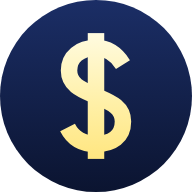
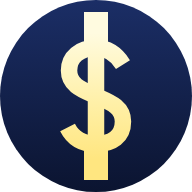
Laboratório: o cifrão do ícone com retangulinhos em cima e embaixo do S
A opção B escolhida pelo autor: o S e o amarelo mais claro continuam iguais;
o traço vertical sai do S em dois retangulinhos, que em 16 px têm 2 px de
largura e caem inteiros nos pixels. Nas 6 páginas do dólar do teste links/,
o endereço do ícone muda de ?v=bemclaro para ?v=retangulos, para o navegador
não mostrar o ícone guardado.

Claude-Session: https://claude.ai/code/session_01Up1sG6mP6TagJLXrWP4Ckp

Changed region(s): [[0.4375, 0.7812, 0.5625, 0.9375], [0.4375, 0.0625, 0.5625, 0.2188]]

diff --git a/links/cotidiano/index.html b/links/cotidiano/index.html
@@ -13,10 +13,10 @@
 
   <meta name="theme-color" content="#06061a">
   <meta name="color-scheme" content="dark">
-  <link rel="icon" href="/my_test_333/links/assets/dolar.ico?v=bemclaro" sizes="16x16 32x32 48x48">
-  <link rel="icon" href="/my_test_333/links/assets/dolar-48.png?v=bemclaro" sizes="48x48" type="image/png">
-  <link rel="icon" href="/my_test_333/links/assets/dolar-192.png?v=bemclaro" sizes="192x192" type="image/png">
-  <link rel="apple-touch-icon" href="/my_test_333/links/assets/dolar-180.png?v=bemclaro">
+  <link rel="icon" href="/my_test_333/links/assets/dolar.ico?v=retangulos" sizes="16x16 32x32 48x48">
+  <link rel="icon" href="/my_test_333/links/assets/dolar-48.png?v=retangulos" sizes="48x48" type="image/png">
+  <link rel="icon" href="/my_test_333/links/assets/dolar-192.png?v=retangulos" sizes="192x192" type="image/png">
+  <link rel="apple-touch-icon" href="/my_test_333/links/assets/dolar-180.png?v=retangulos">
 
   <meta property="og:type" content="website">
   <meta property="og:locale" content="pt_BR">

diff --git a/links/en/everyday/index.html b/links/en/everyday/index.html
@@ -13,10 +13,10 @@
 
   <meta name="theme-color" content="#06061a">
   <meta name="color-scheme" content="dark">
-  <link rel="icon" href="/my_test_333/links/assets/dolar.ico?v=bemclaro" sizes="16x16 32x32 48x48">
-  <link rel="icon" href="/my_test_333/links/assets/dolar-48.png?v=bemclaro" sizes="48x48" type="image/png">
-  <link rel="icon" href="/my_test_333/links/assets/dolar-192.png?v=bemclaro" sizes="192x192" type="image/png">
-  <link rel="apple-touch-icon" href="/my_test_333/links/assets/dolar-180.png?v=bemclaro">
+  <link rel="icon" href="/my_test_333/links/assets/dolar.ico?v=retangulos" sizes="16x16 32x32 48x48">
+  <link rel="icon" href="/my_test_333/links/assets/dolar-48.png?v=retangulos" sizes="48x48" type="image/png">
+  <link rel="icon" href="/my_test_333/links/assets/dolar-192.png?v=retangulos" sizes="192x192" type="image/png">
+  <link rel="apple-touch-icon" href="/my_test_333/links/assets/dolar-180.png?v=retangulos">
 
   <meta property="og:type" content="website">
   <meta property="og:locale" content="en_US">

diff --git a/links/dinheiro/index.html b/links/dinheiro/index.html
@@ -13,10 +13,10 @@
 
   <meta name="theme-color" content="#06110a">
   <meta name="color-scheme" content="dark">
-  <link rel="icon" href="/my_test_333/links/assets/dolar.ico?v=bemclaro" sizes="16x16 32x32 48x48">
-  <link rel="icon" href="/my_test_333/links/assets/dolar-48.png?v=bemclaro" sizes="48x48" type="image/png">
-  <link rel="icon" href="/my_test_333/links/assets/dolar-192.png?v=bemclaro" sizes="192x192" type="image/png">
-  <link rel="apple-touch-icon" href="/my_test_333/links/assets/dolar-180.png?v=bemclaro">
+  <link rel="icon" href="/my_test_333/links/assets/dolar.ico?v=retangulos" sizes="16x16 32x32 48x48">
+  <link rel="icon" href="/my_test_333/links/assets/dolar-48.png?v=retangulos" sizes="48x48" type="image/png">
+  <link rel="icon" href="/my_test_333/links/assets/dolar-192.png?v=retangulos" sizes="192x192" type="image/png">
+  <link rel="apple-touch-icon" href="/my_test_333/links/assets/dolar-180.png?v=retangulos">
 
   <meta property="og:type" content="book">
   <meta property="og:locale" content="pt_BR">

diff --git a/links/money/index.html b/links/money/index.html
@@ -13,10 +13,10 @@
 
   <meta name="theme-color" content="#06110a">
   <meta name="color-scheme" content="dark">
-  <link rel="icon" href="/my_test_333/links/assets/dolar.ico?v=bemclaro" sizes="16x16 32x32 48x48">
-  <link rel="icon" href="/my_test_333/links/assets/dolar-48.png?v=bemclaro" sizes="48x48" type="image/png">
-  <link rel="icon" href="/my_test_333/links/assets/dolar-192.png?v=bemclaro" sizes="192x192" type="image/png">
-  <link rel="apple-touch-icon" href="/my_test_333/links/assets/dolar-180.png?v=bemclaro">
+  <link rel="icon" href="/my_test_333/links/assets/dolar.ico?v=retangulos" sizes="16x16 32x32 48x48">
+  <link rel="icon" href="/my_test_333/links/assets/dolar-48.png?v=retangulos" sizes="48x48" type="image/png">
+  <link rel="icon" href="/my_test_333/links/assets/dolar-192.png?v=retangulos" sizes="192x192" type="image/png">
+  <link rel="apple-touch-icon" href="/my_test_333/links/assets/dolar-180.png?v=retangulos">
 
   <meta property="og:type" content="book">
   <meta property="og:locale" content="en_US">

diff --git a/links/succeed.on.kindle/index.html b/links/succeed.on.kindle/index.html
@@ -13,10 +13,10 @@
 
   <meta name="theme-color" content="#050a18">
   <meta name="color-scheme" content="dark">
-  <link rel="icon" href="/my_test_333/links/assets/dolar.ico?v=bemclaro" sizes="16x16 32x32 48x48">
-  <link rel="icon" href="/my_test_333/links/assets/dolar-48.png?v=bemclaro" sizes="48x48" type="image/png">
-  <link rel="icon" href="/my_test_333/links/assets/dolar-192.png?v=bemclaro" sizes="192x192" type="image/png">
-  <link rel="apple-touch-icon" href="/my_test_333/links/assets/dolar-180.png?v=bemclaro">
+  <link rel="icon" href="/my_test_333/links/assets/dolar.ico?v=retangulos" sizes="16x16 32x32 48x48">
+  <link rel="icon" href="/my_test_333/links/assets/dolar-48.png?v=retangulos" sizes="48x48" type="image/png">
+  <link rel="icon" href="/my_test_333/links/assets/dolar-192.png?v=retangulos" sizes="192x192" type="image/png">
+  <link rel="apple-touch-icon" href="/my_test_333/links/assets/dolar-180.png?v=retangulos">
 
   <meta property="og:type" content="book">
   <meta property="og:locale" content="en_US">

diff --git a/links/sucesso.kindle/index.html b/links/sucesso.kindle/index.html
@@ -13,10 +13,10 @@
 
   <meta name="theme-color" content="#050a18">
   <meta name="color-scheme" content="dark">
-  <link rel="icon" href="/my_test_333/links/assets/dolar.ico?v=bemclaro" sizes="16x16 32x32 48x48">
-  <link rel="icon" href="/my_test_333/links/assets/dolar-48.png?v=bemclaro" sizes="48x48" type="image/png">
-  <link rel="icon" href="/my_test_333/links/assets/dolar-192.png?v=bemclaro" sizes="192x192" type="image/png">
-  <link rel="apple-touch-icon" href="/my_test_333/links/assets/dolar-180.png?v=bemclaro">
+  <link rel="icon" href="/my_test_333/links/assets/dolar.ico?v=retangulos" sizes="16x16 32x32 48x48">
+  <link rel="icon" href="/my_test_333/links/assets/dolar-48.png?v=retangulos" sizes="48x48" type="image/png">
+  <link rel="icon" href="/my_test_333/links/assets/dolar-192.png?v=retangulos" sizes="192x192" type="image/png">
+  <link rel="apple-touch-icon" href="/my_test_333/links/assets/dolar-180.png?v=retangulos">
 
   <meta property="og:type" content="book">
   <meta property="og:locale" content="pt_BR">
